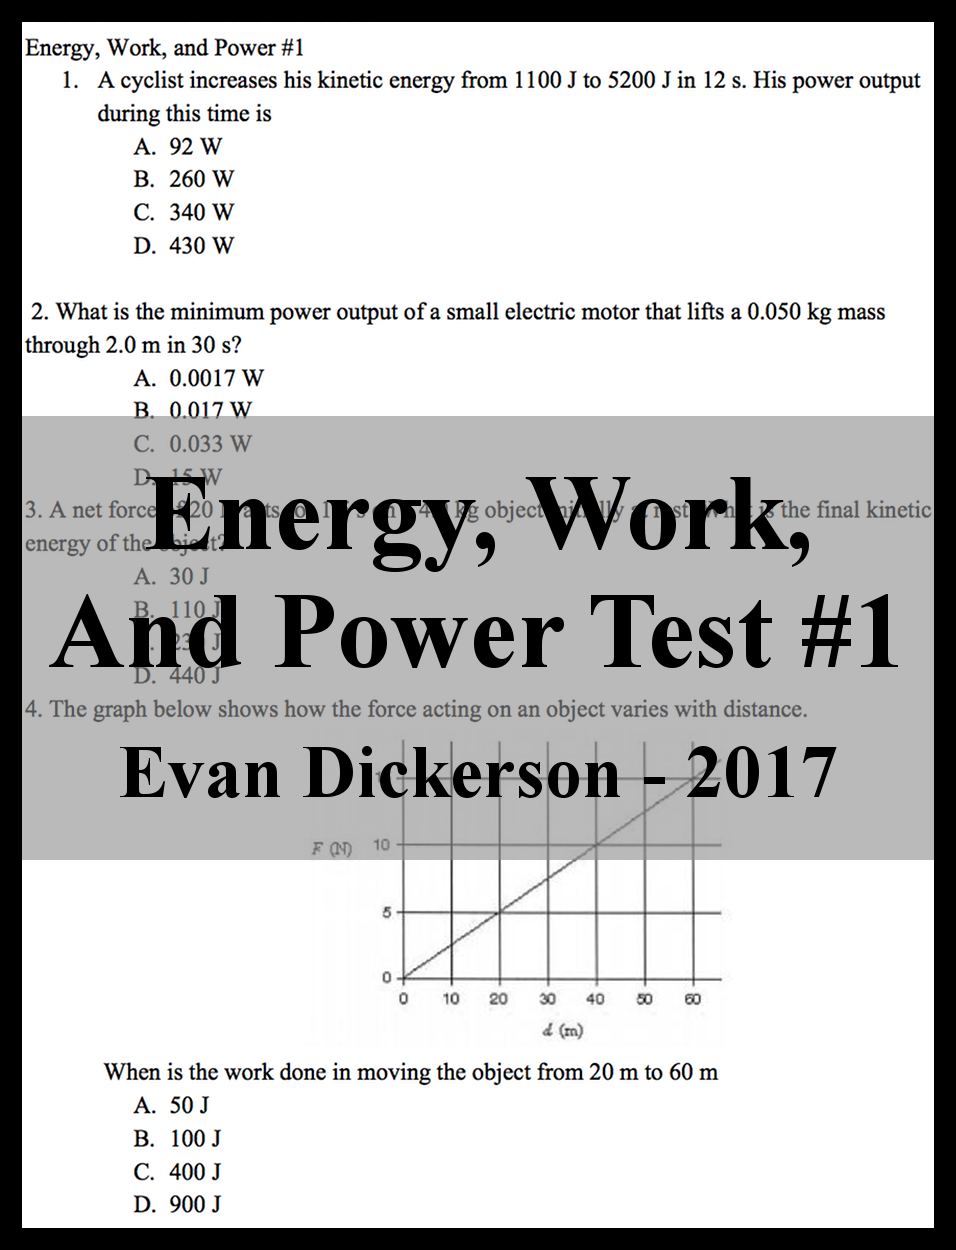
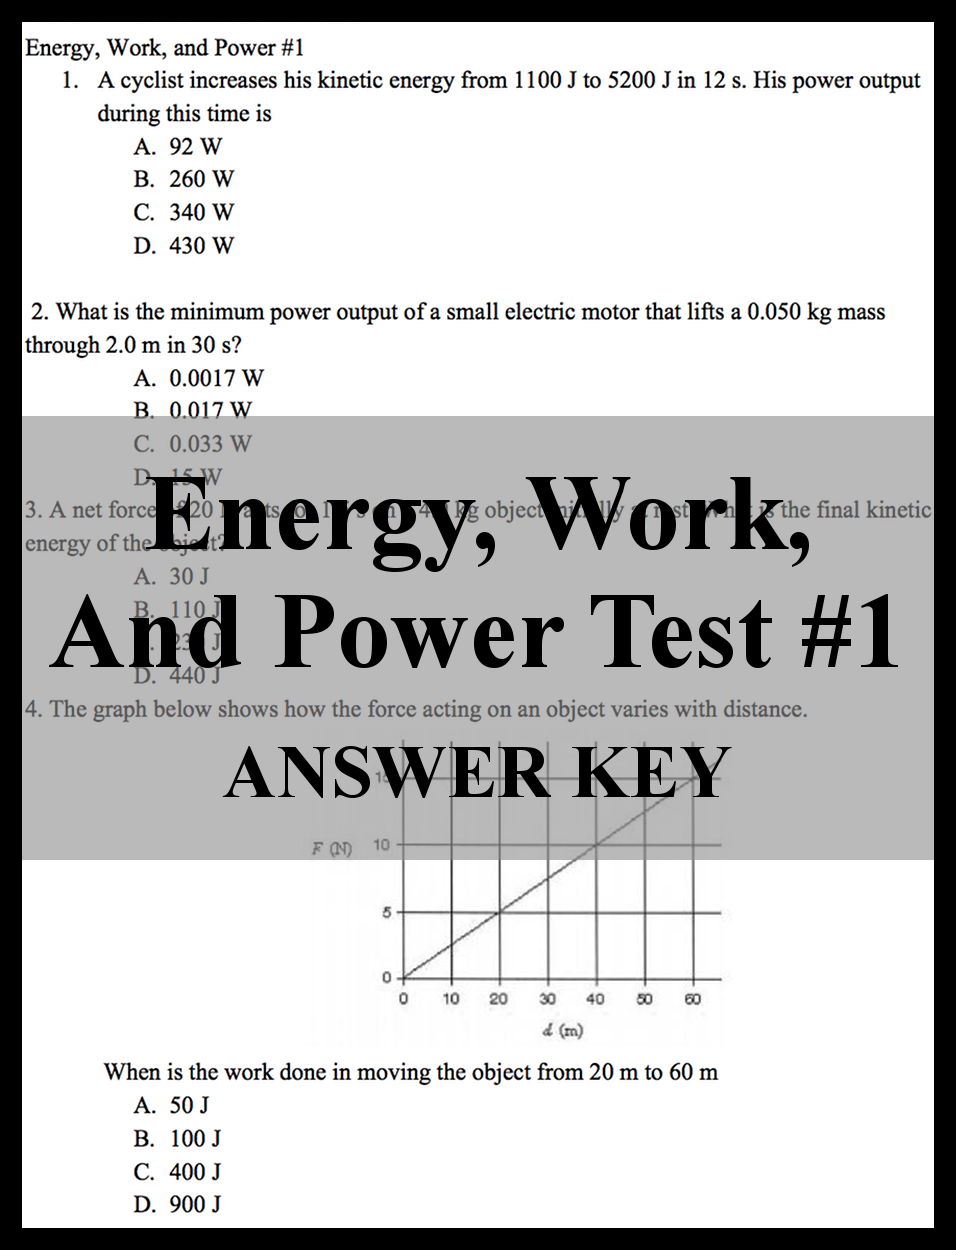
removed mathis photo

Changed region(s): [[0.1213, 0.5928, 0.8797, 0.6552]]

diff --git a/index.html b/index.html
@@ -24,16 +24,16 @@ w\:* {behavior:url(#default#VML);}
  <o:DocumentProperties>
   <o:Author>Alex Lomis</o:Author>
   <o:LastAuthor>Alex Lomis</o:LastAuthor>
-  <o:Revision>13</o:Revision>
+  <o:Revision>14</o:Revision>
   <o:TotalTime>12</o:TotalTime>
   <o:Created>2017-05-11T15:20:00Z</o:Created>
-  <o:LastSaved>2017-05-11T19:06:00Z</o:LastSaved>
+  <o:LastSaved>2017-05-11T19:08:00Z</o:LastSaved>
   <o:Pages>1</o:Pages>
   <o:Words>37</o:Words>
-  <o:Characters>217</o:Characters>
+  <o:Characters>216</o:Characters>
   <o:Lines>1</o:Lines>
   <o:Paragraphs>1</o:Paragraphs>
-  <o:CharactersWithSpaces>253</o:CharactersWithSpaces>
+  <o:CharactersWithSpaces>252</o:CharactersWithSpaces>
   <o:Version>14.0</o:Version>
  </o:DocumentProperties>
  <o:OfficeDocumentSettings>
@@ -491,7 +491,7 @@ table.MsoTableGrid
 	mso-hansi-theme-font:minor-latin;}
 </style>
 <![endif]--><!--[if gte mso 9]><xml>
- <o:shapedefaults v:ext="edit" spidmax="1026"/>
+ <o:shapedefaults v:ext="edit" spidmax="1032"/>
 </xml><![endif]--><!--[if gte mso 9]><xml>
  <o:shapelayout v:ext="edit">
   <o:idmap v:ext="edit" data="1"/>
@@ -537,18 +537,10 @@ text-underline:none'><!--[if gte vml 1]><v:shapetype id="_x0000_t75"
  <v:fill o:detectmouseclick="t"/>
  <v:imagedata src="index_files/image001.png" o:title=""/>
 </v:shape><![endif]--><![if !vml]><img border=0 width=301 height=393
-src="index_files/image002.png" v:shapes="Picture_x0020_11"><![endif]></span></a><span
-style='mso-no-proof:yes'><!--[if gte vml 1]><v:shape id="Picture_x0020_1"
- o:spid="_x0000_i1028" type="#_x0000_t75" alt="Description: Macintosh HD:Users:AlexLomis:Desktop:Screen Shot 2017-05-05 at 4.46.25 PM.png"
- style='width:457pt;height:544pt;visibility:visible;mso-wrap-style:square'>
- <v:imagedata src="index_files/image003.png" o:title="Screen Shot 2017-05-05 at 4.46.25 PM.png"/>
-</v:shape><![endif]--><![if !vml]><img border=0 width=459 height=546
-src="index_files/image004.png"
-alt="Description: Macintosh HD:Users:AlexLomis:Desktop:Screen Shot 2017-05-05 at 4.46.25 PM.png"
-v:shapes="Picture_x0020_1"><![endif]></span></span><span style='font-size:20.0pt;
-mso-bidi-font-size:23.0pt;line-height:115%;font-family:"Times New Roman";
-mso-fareast-font-family:"\FF2D\FF33 \660E\671D";mso-fareast-theme-font:minor-fareast;
-color:windowtext'><o:p></o:p></span></p>
+src="index_files/image002.png" v:shapes="Picture_x0020_11"><![endif]></span></a></span><span
+style='font-size:20.0pt;mso-bidi-font-size:23.0pt;line-height:115%;font-family:
+"Times New Roman";mso-fareast-font-family:"\FF2D\FF33 \660E\671D";mso-fareast-theme-font:
+minor-fareast;color:windowtext'><o:p></o:p></span></p>
 
 <p class=MsoNormal><span style='font-size:20.0pt;mso-bidi-font-size:23.0pt;
 line-height:115%;font-family:"Times New Roman";mso-fareast-font-family:"\FF2D\FF33 \660E\671D";
@@ -562,14 +554,14 @@ color:windowtext'><a
 href="https://drive.google.com/file/d/0B4J142O3WSAxMFo0ZFEwVUZDTWc/view"><span
 style='font-size:20.0pt;mso-bidi-font-size:23.0pt;line-height:115%;font-family:
 "Times New Roman";color:windowtext;mso-no-proof:yes;text-decoration:none;
-text-underline:none'><!--[if gte vml 1]><v:shape id="Picture_x0020_12" o:spid="_x0000_i1026"
+text-underline:none'><!--[if gte vml 1]><v:shape id="Picture_x0020_12" o:spid="_x0000_i1027"
  type="#_x0000_t75" alt="Description: Macintosh HD:Users:AlexLomis:Desktop:EWP 1.png"
  href="https://drive.google.com/file/d/0B4J142O3WSAxMFo0ZFEwVUZDTWc/view"
  style='width:298pt;height:389pt;visibility:visible;mso-wrap-style:square'
  o:button="t">
- <v:imagedata src="index_files/image005.png" o:title="EWP 1.png"/>
+ <v:imagedata src="index_files/image003.png" o:title="EWP 1.png"/>
 </v:shape><![endif]--><![if !vml]><img border=0 width=300 height=391
-src="index_files/image006.png"
+src="index_files/image004.png"
 alt="Description: Macintosh HD:Users:AlexLomis:Desktop:EWP 1.png" v:shapes="Picture_x0020_12"><![endif]></span></a></span><span
 style='font-size:20.0pt;mso-bidi-font-size:23.0pt;line-height:115%;font-family:
 "Times New Roman";mso-fareast-font-family:"\FF2D\FF33 \660E\671D";mso-fareast-theme-font:
@@ -581,14 +573,14 @@ mso-bidi-theme-font:minor-bidi;color:windowtext'><a
 href="https://drive.google.com/file/d/0B4J142O3WSAxOE5ham5BSk00Y0U/view"><span
 style='font-size:20.0pt;mso-bidi-font-size:23.0pt;line-height:115%;font-family:
 "Times New Roman";color:windowtext;mso-no-proof:yes;text-decoration:none;
-text-underline:none'><!--[if gte vml 1]><v:shape id="Picture_x0020_13" o:spid="_x0000_i1027"
+text-underline:none'><!--[if gte vml 1]><v:shape id="Picture_x0020_13" o:spid="_x0000_i1028"
  type="#_x0000_t75" alt="Description: Macintosh HD:Users:AlexLomis:Desktop:EWP 1A.png"
  href="https://drive.google.com/file/d/0B4J142O3WSAxOE5ham5BSk00Y0U/view"
  style='width:298pt;height:389pt;visibility:visible;mso-wrap-style:square'
  o:button="t">
- <v:imagedata src="index_files/image007.png" o:title="EWP 1A.png"/>
+ <v:imagedata src="index_files/image005.png" o:title="EWP 1A.png"/>
 </v:shape><![endif]--><![if !vml]><img border=0 width=300 height=391
-src="index_files/image008.png"
+src="index_files/image006.png"
 alt="Description: Macintosh HD:Users:AlexLomis:Desktop:EWP 1A.png" v:shapes="Picture_x0020_13"><![endif]></span></a></span><span
 style='font-size:20.0pt;mso-bidi-font-size:23.0pt;line-height:115%;font-family:
 "Times New Roman";mso-fareast-font-family:"\FF2D\FF33 \660E\671D";mso-fareast-theme-font:
